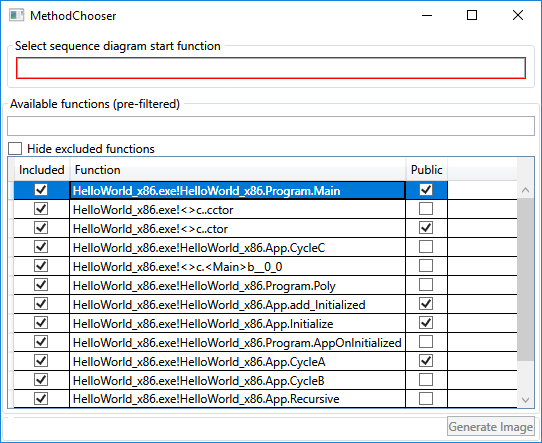
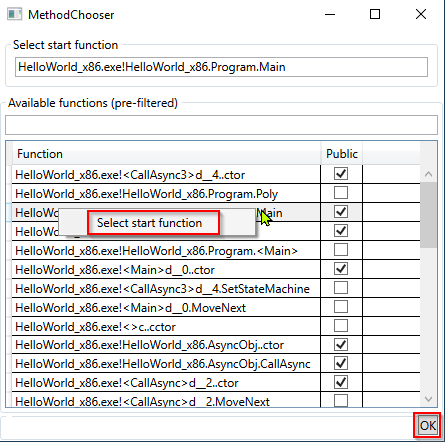
Updated README.md

diff --git a/README.md b/README.md
@@ -36,11 +36,21 @@ Go to the tab "Create sequence diagram" and select the profile you collected.
 
 "Edit Pre-Filter" opens a text file that filters a lot of the default .NET namespaces you don't want to see in a sequence diagram. You can add further elements here.
 
-Clicking on "Generate" opens a dialog that lets you define your diagram. You have to select the entry function for the sequence diagram and all method calls you want to include. Note that you can refine your diagram again and again by adding or removing functions. Use the context menu to select the entry function.
+Clicking on "Generate" opens a dialog that lets you define your start function for the sequence diagram. Use the context menu to select the function.
 
 
 
 ![image-20200125152251307](Images/image-20200125152251307.png)
+
+By clicking OK a call tree explorer is openend that shows you all execution traces of the selected start function.
+
+Here you can define you sequence diagram by checking which functions are included and which are not.
+
+Use the context menu to generate the UML diagram. The call tree explorer is kept open. You you can refine the diagram and try again.
+
+<img src="Images\2022-04-16 15_09_50.png" style="zoom: 67%;" />
+
+
 
 ## Notes and limitations
 
@@ -48,6 +58,6 @@ The result is shown in an svg viewer. The input plantuml file is written to the 
 
 ![image-20200125153650798](Images/image-20200125153650798.png)
 
-You can hide method calls in the Method Chooser window. If you hide a call that results in a call you want to see the arrow is drawn in blue color. Meaning the method CycleA calls CycleA indirectly and hiding calls in between.
+You can exclude functions in the call tree explorer. If you hide a call that results in a call you want to see the arrow is drawn in blue color. Meaning the method CycleA calls CycleA indirectly and hiding calls in between.
 
 ![image-20200125152916959](Images/image-20200125152916959.png)
